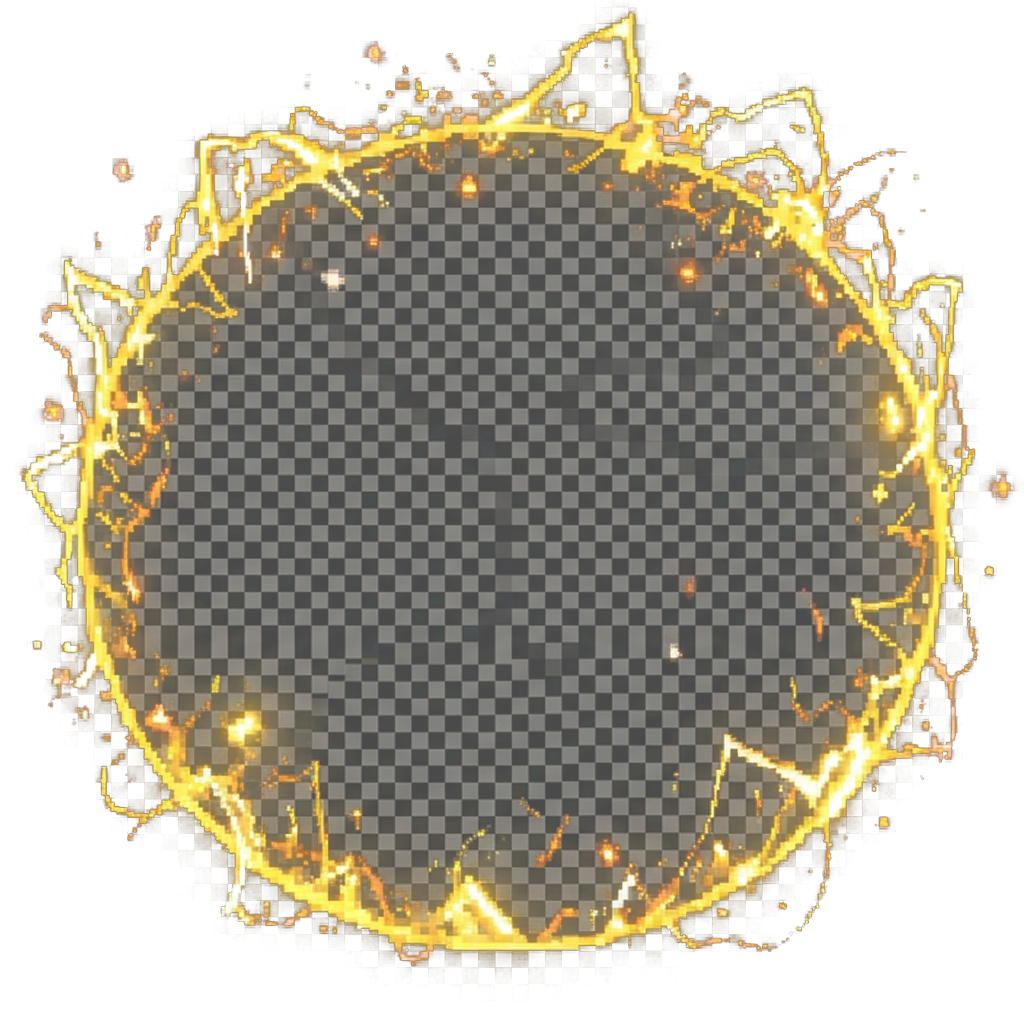
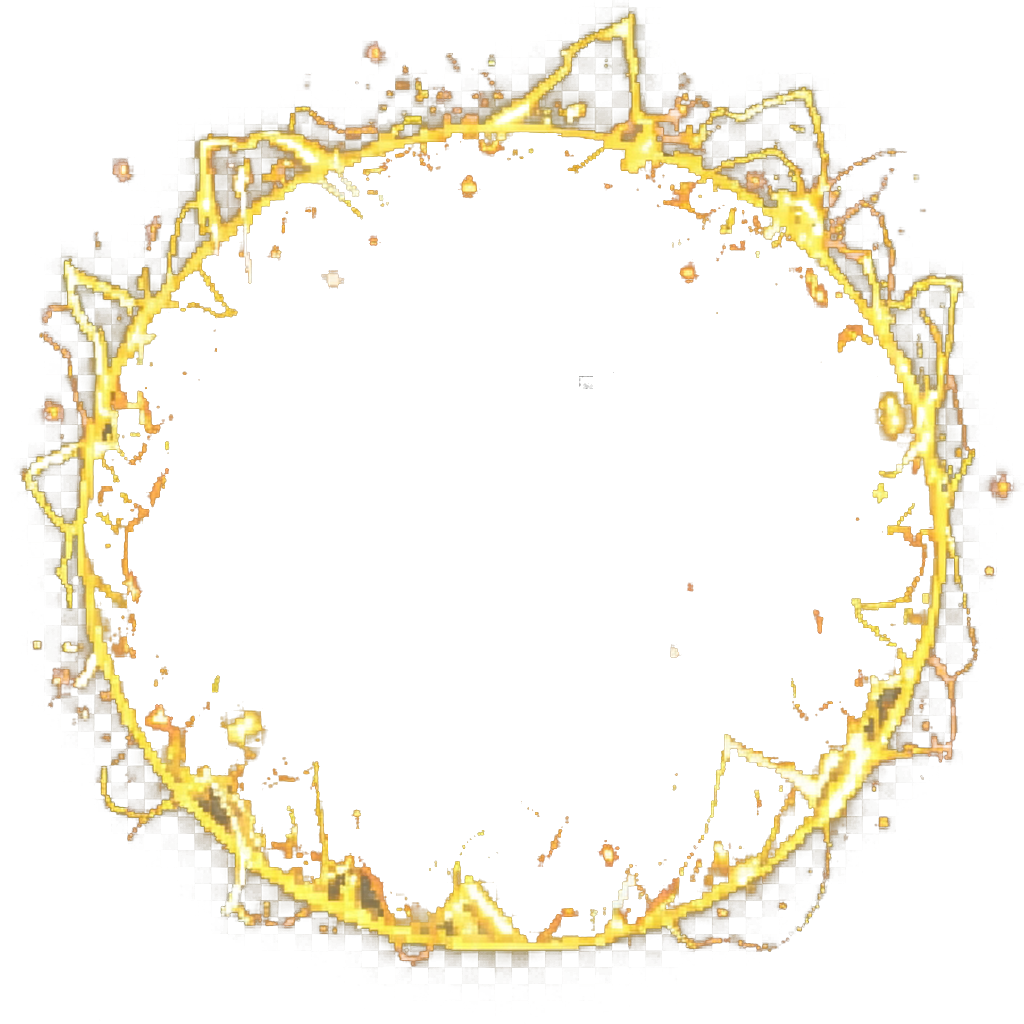
Mejores sprites

diff --git a/Personaje.py b/Personaje.py
@@ -10,7 +10,7 @@ class Personaje(SerVivo):
         self.rango = rango
         self.grupo = grupo
         
-        self.rect = self.rect.inflate(-50, -50)
+        self.rect = self.rect.inflate(-55, -55)
         self.rect.center = (x,y)
 
         #Instancia de los ataques
